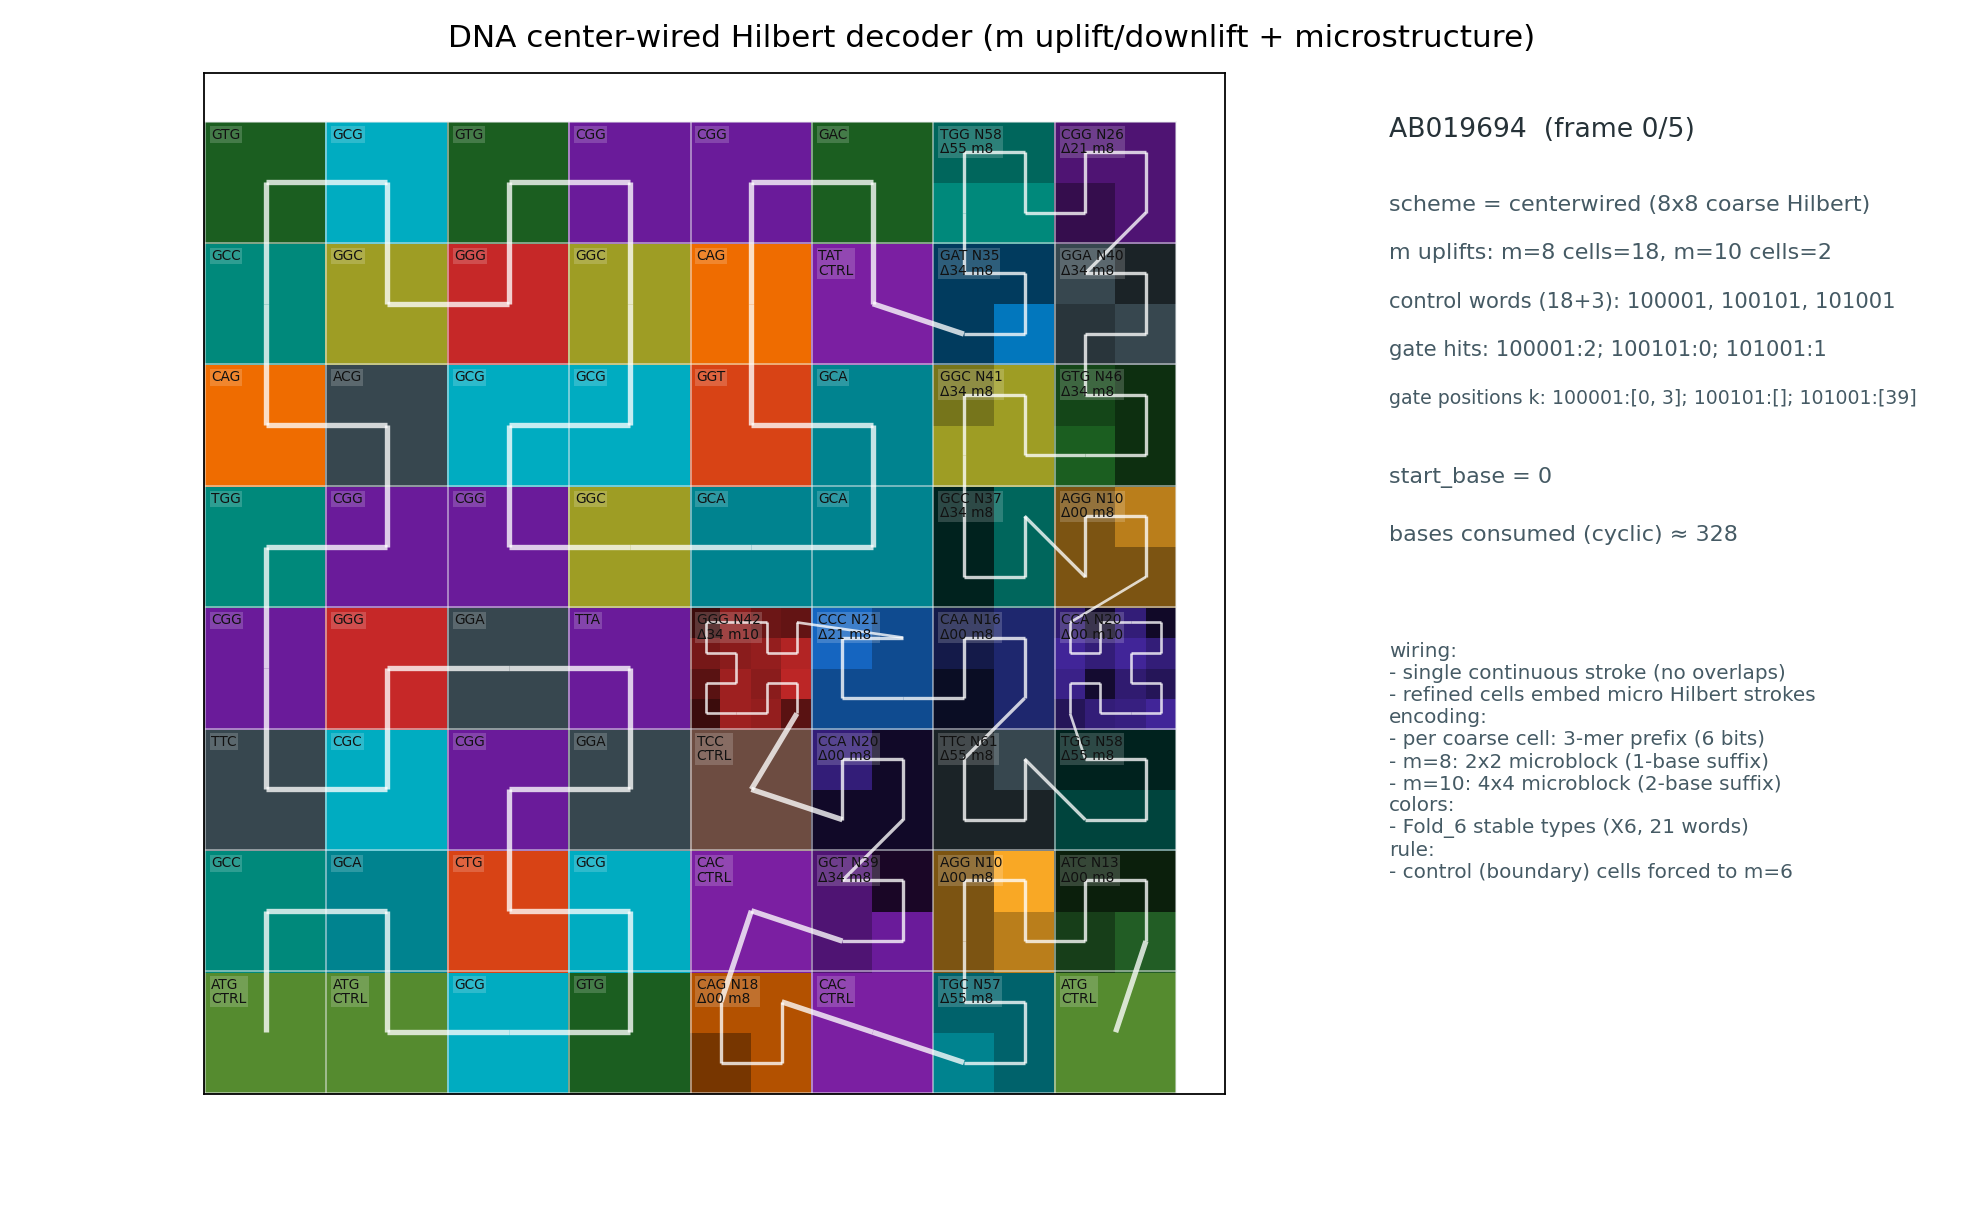
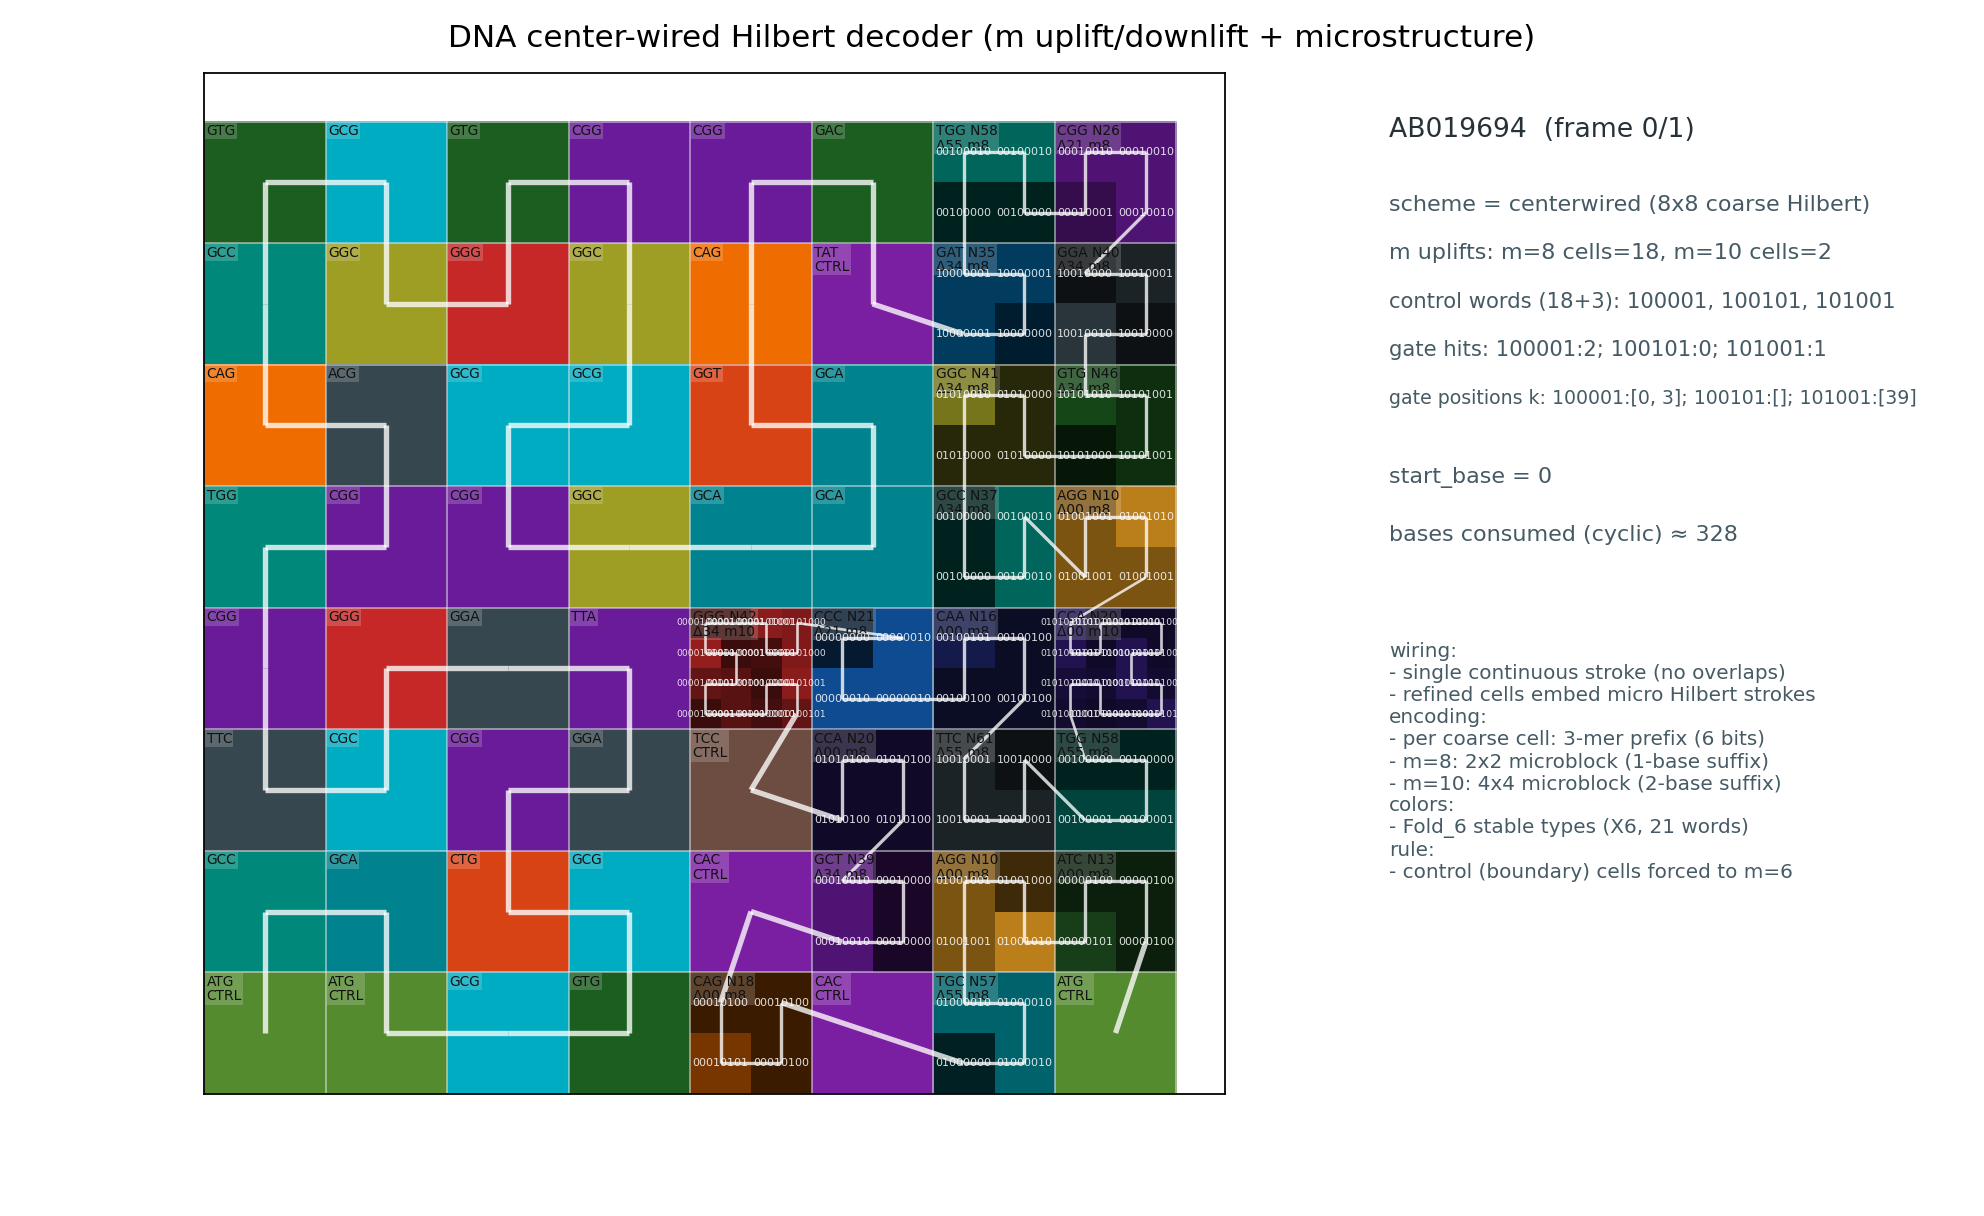
Update figures and enhance script for DNA Hilbert decoder: added micro-labeling option in rendering, updated binary figures for centerwired gates, and improved visualization features.

diff --git a/docs/papers/biology/2025_arithmetic_origin_genetic_code_hpa_omega/scripts/fig_dna_hilbert_decoder_movie.py b/docs/papers/biology/2025_arithmetic_origin_genetic_code_hpa_omega/scripts/fig_dna_hilbert_decoder_movie.py
@@ -486,6 +486,36 @@ def _take(seq: str, start: int, n: int) -> str:
     return "".join(seq[(start + i) % L] for i in range(n))
 
 
+def _is_admissible_bits(bits: str) -> bool:
+    # Admissible means no consecutive '1's.
+    s = str(bits)
+    return "11" not in s
+
+
+def _admissible_suffix_patterns(n_bits: int, *, prefix_last: str) -> list[str]:
+    """
+    Return admissible suffix patterns of length n_bits for Xm prefix inheritance.
+    Enforces:
+      - no '11' within the suffix
+      - no '11' across the boundary between prefix_last and suffix[0]
+    """
+    n_bits = int(n_bits)
+    if n_bits <= 0:
+        return [""]
+    pre_last = str(prefix_last)
+    outs: list[str] = []
+    for v in range(1 << n_bits):
+        sfx = format(int(v), f"0{n_bits}b")
+        if not _is_admissible_bits(sfx):
+            continue
+        if pre_last == "1" and sfx[0] == "1":
+            continue
+        outs.append(sfx)
+    # Deterministic order: increasing integer value.
+    outs.sort(key=lambda s: int(s, 2) if s else 0)
+    return outs
+
+
 def _m_events_default() -> str:
     # Matches the original figure's piecewise-constant schedule (by coarse scan index k).
     return "18:8,20:10,23:8,27:6"
@@ -808,6 +838,7 @@ def _render_frame_centerwired(
     title: str,
     show_labels: bool = True,
     show_wiring: bool = True,
+    show_micro_labels: bool = False,
     mu: dict[str, str] | None = None,
     gates: dict[str, list[int]] | None = None,
 ) -> np.ndarray:
@@ -995,6 +1026,8 @@ def _render_frame_centerwired(
                 raise ValueError("Internal error: wiring overlap remained after backtracking.")
 
     # ---- Pass 3: paint microblocks using chosen orders (no effect on wiring geometry) ----
+    micro_labels: list[tuple[float, float, str, int, int, int]] = []
+    # Each entry: (cx, cy, text, sub_x0, sub_y0, sub_size)
     for k, info in refined_cells.items():
         x = int(macro_info[int(k)]["x"])
         y = int(macro_info[int(k)]["y"])
@@ -1009,28 +1042,54 @@ def _render_frame_centerwired(
             continue
         col_tup = macro_info[int(k)]["col"]
         col = np.array([float(col_tup[0]), float(col_tup[1]), float(col_tup[2])], dtype=np.float32)
+        w6 = str(macro_info[int(k)]["w"])
+        # Auto-disable micro labels if subcells are too small to be readable.
+        sub_px = int(cell_px // max(1, S))
+        want_micro_labels = bool(show_micro_labels and sub_px >= 16)
 
         if m_eff == 8:
+            sfx_pool = _admissible_suffix_patterns(2, prefix_last=w6[-1])
             for i, (xx, yy) in enumerate(ord_xy):
                 b1 = str(suffix[i]) if i < len(suffix) else "A"
-                code = int(_BASE_TO_CODE.get(b1, 0))
+                code_raw = int(_BASE_TO_CODE.get(b1, 0)) & 0x03
+                # Map raw 2-bit code into an admissible suffix in X8 (may drop illegal patterns).
+                sfx = sfx_pool[int(code_raw) % len(sfx_pool)]
+                code = int(sfx, 2) if sfx else 0
                 t = 0.25 + 0.75 * (float(code) / 3.0)
                 step_x0 = x0 + int(xx) * (cell_px // S)
                 step_y0 = y0 + int(yy) * (cell_px // S)
                 step_x1 = x0 + (int(xx) + 1) * (cell_px // S)
                 step_y1 = y0 + (int(yy) + 1) * (cell_px // S)
                 base_rgb[step_y0:step_y1, step_x0:step_x1, :] = np.clip(col * float(t), 0.0, 1.0)
+                if want_micro_labels:
+                    word8 = f"{w6}{sfx}"
+                    if not _is_admissible_bits(word8):
+                        raise ValueError("Internal error: constructed m=8 word is not admissible.")
+                    cx = float(step_x0 + step_x1) * 0.5
+                    cy = float(step_y0 + step_y1) * 0.5
+                    micro_labels.append((cx, cy, word8, int(step_x0), int(step_y0), int(sub_px)))
         else:
+            sfx_pool = _admissible_suffix_patterns(4, prefix_last=w6[-1])
             for i, (xx, yy) in enumerate(ord_xy):
                 j = 2 * i
                 b2 = (str(suffix[j]) if j < len(suffix) else "A") + (str(suffix[j + 1]) if (j + 1) < len(suffix) else "A")
-                code = _bases_to_u6_int("A" + b2) & 0x0F
+                code_raw = _bases_to_u6_int("A" + b2) & 0x0F
+                # Map raw 4-bit code into an admissible suffix in X10 (may drop illegal patterns).
+                sfx = sfx_pool[int(code_raw) % len(sfx_pool)]
+                code = int(sfx, 2) if sfx else 0
                 t = 0.25 + 0.75 * (float(code) / 15.0)
                 step_x0 = x0 + int(xx) * (cell_px // S)
                 step_y0 = y0 + int(yy) * (cell_px // S)
                 step_x1 = x0 + (int(xx) + 1) * (cell_px // S)
                 step_y1 = y0 + (int(yy) + 1) * (cell_px // S)
                 base_rgb[step_y0:step_y1, step_x0:step_x1, :] = np.clip(col * float(t), 0.0, 1.0)
+                if want_micro_labels:
+                    word10 = f"{w6}{sfx}"
+                    if not _is_admissible_bits(word10):
+                        raise ValueError("Internal error: constructed m=10 word is not admissible.")
+                    cx = float(step_x0 + step_x1) * 0.5
+                    cy = float(step_y0 + step_y1) * 0.5
+                    micro_labels.append((cx, cy, word10, int(step_x0), int(step_y0), int(sub_px)))
 
     # Render as a figure with wiring overlay.
     fig = plt.figure(figsize=(12.4, 7.6), dpi=160)
@@ -1094,6 +1153,25 @@ def _render_frame_centerwired(
                 clip_on=True,
                 clip_path=clip_rect,
                 zorder=9,
+            )
+
+    # Optional: show self-describing micro labels (w6 + suffix bits) inside refined cells.
+    if micro_labels:
+        for (cx, cy, txt, sx0, sy0, ssz) in micro_labels:
+            # Clip each label to its own subcell.
+            clip_rect = Rectangle((sx0, sy0), ssz, ssz, transform=ax.transData)
+            ax.text(
+                cx,
+                cy,
+                txt,
+                fontsize=5.0 if len(txt) <= 8 else 4.2,
+                color="#FFFFFF",
+                ha="center",
+                va="center",
+                alpha=0.85,
+                clip_on=True,
+                clip_path=clip_rect,
+                zorder=10,
             )
 
     axr = fig.add_axes([0.70, 0.12, 0.27, 0.80])
@@ -1410,6 +1488,11 @@ def parse_args() -> argparse.Namespace:
         help="(centerwired, m-policy=gates) Comma-separated Δ values that trigger m=10 inside refined mode (default: 55).",
     )
     p.add_argument("--no-labels", action="store_true", help="(centerwired) Disable per-cell labels.")
+    p.add_argument(
+        "--micro-labels",
+        action="store_true",
+        help="(centerwired) Show self-describing micro labels: w6 + suffix bits inside refined cells (auto-disabled if subcells are too small).",
+    )
     p.add_argument("--no-wiring", action="store_true", help="(centerwired) Disable one-stroke wiring overlay.")
 
     p.add_argument("--out-prefix", type=str, default=str(figures_dir() / "dna_hilbert"), help="Output prefix (no extension).")
@@ -1484,6 +1567,7 @@ def main() -> None:
                 title=title,
                 show_labels=not bool(args.no_labels),
                 show_wiring=not bool(args.no_wiring),
+                show_micro_labels=bool(args.micro_labels),
                 mu=mu_star,
                 gates=gates,
             )
